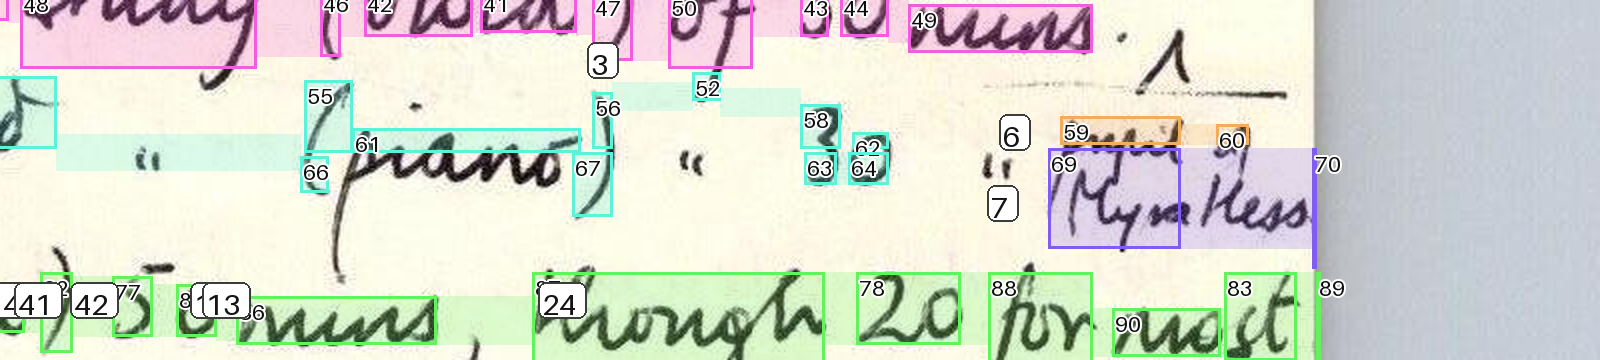
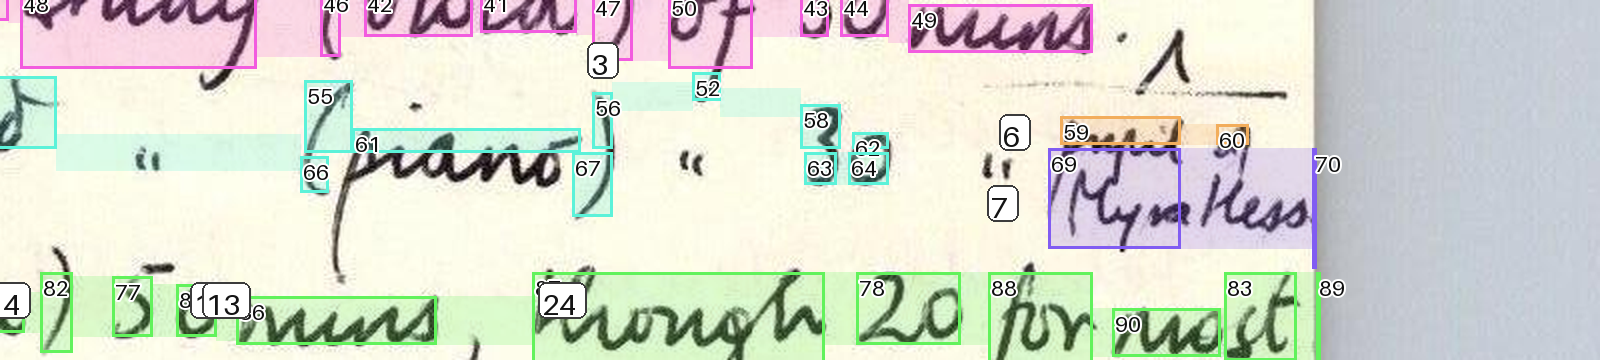
spike: apply the bottom corrections to the pinned mapping
37 regains 413/415/416/425 + 424; 43 folded into 40 (454+455 in);
41/42 entries deleted. 40 segments; no 41/42/43 labels.

Changed region(s): [[0.0, 0.7639, 0.0938, 0.8861]]

diff --git a/tests/test_spike_gold.py b/tests/test_spike_gold.py
@@ -551,12 +551,17 @@ EXPECTED_MAPPING = {
         410,
         411,
         412,
+        413,
         414,
+        415,
+        416,
         417,
         418,
         420,
         421,
         423,
+        424,
+        425,
     ],
     "40": [
         427,
@@ -584,10 +589,9 @@ EXPECTED_MAPPING = {
         451,
         452,
         453,
+        454,
+        455,
     ],
-    "41": [415, 413, 416, 425],
-    "42": [428, 430],
-    "43": [454, 455],
 }
 
 
